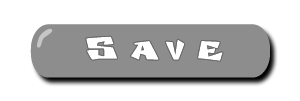
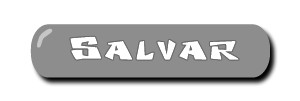
Update on the Winner screen and Initial screen

Changed region(s): [[0.21, 0.3564, 0.81, 0.6238]]

diff --git a/src/shoot_the_alien/screens/WinnerScreen.java b/src/shoot_the_alien/screens/WinnerScreen.java
@@ -13,11 +13,15 @@ import javax.swing.JTextField;
 import javax.swing.border.Border;
 import javax.swing.border.EtchedBorder;
 
+import shoot_the_alien.Framework;
+import shoot_the_alien.Framework.GameState;
 import shoot_the_alien.Image;
+import shoot_the_alien.JoyStick;
+import shoot_the_alien.PlayWAVFile;
 import shoot_the_alien.Window;
 
 /**
- * 
+ * Build the winner screen.
  * 
  * @author Luiz Eduardo da Costa
  * @version 1.0, 05/05/2016
@@ -54,7 +58,10 @@ public class WinnerScreen {
      * The index of the currently selected button.
      */
     private int btnSelectedIndex = 0;
-    
+    /**
+     * Play a file sound.
+     */
+    private PlayWAVFile soundFile;
     
     
     
@@ -77,12 +84,14 @@ public class WinnerScreen {
 	 */
 	private void loadContent(){
 		objImage = new Image();		
-		background  = objImage.getBackgroundImg();
+		background  = objImage.getBackgroundWinnerImg();
 		univas_logo = objImage.getUnivasLogoImg();
 		imgBtnSave = objImage.getBtnSaveImg();
     	imgBtnSave2 = objImage.getBtnSaveImg2();
     	imgBtnCancel = objImage.getBtnCancelImg();
     	imgBtnCancel2 = objImage.getBtnCancelImg2();
+    	
+    	soundFile = new PlayWAVFile(PlayWAVFile.CLICK, 1);
 	}
 	
 	
@@ -175,15 +184,9 @@ public class WinnerScreen {
     	g2d.setFont(new Font("Lucida Sans", Font.BOLD, 16));
     	g2d.drawImage(background, 0, 0, Window.frameWidth, Window.frameHeight, null);                
         g2d.drawImage(univas_logo, 0, Window.frameHeight - (univas_logo.getHeight() + 10), 250, 70, null);
-    	
-        if(pnBaseFields != null){
-        	int btn_x = pnBaseFields.getX() + 110;
-        	int btn_y = pnBaseFields.getY() + pnBaseFields.getHeight() + 40;
-            g2d.drawImage(imgBtnSave2, btn_x, btn_y, imgBtnSave2.getWidth(), imgBtnSave2.getHeight(), null);
-            g2d.drawImage(imgBtnCancel, btn_x+360, btn_y, imgBtnCancel.getWidth(), imgBtnCancel.getHeight(), null);
-        }
-
         g2d.drawString(msg, Window.frameWidth/2-200, Window.frameHeight - 8);
+        
+        drawSelectedButton(g2d);
 	}
 	
 	
@@ -215,16 +218,56 @@ public class WinnerScreen {
 				currentlyButtonSelected = ButtonSelected.SAVE;
 				break;
 		}
-    	int btn_x = (Window.frameWidth / 2) - (imgBtnSave.getWidth() / 2);
-    	int btn_y = (Window.frameHeight / 2) ;
     	
-    	g2d.drawImage(imgSave, btn_x, btn_y, imgSave.getWidth(), imgSave.getHeight(), null); 
-    	g2d.drawImage(imgCancel, btn_x, (int) (btn_y*1.25), imgCancel.getWidth(), imgCancel.getHeight(), null); 
+    	
+    	if(pnBaseFields != null){
+        	int btn_x = pnBaseFields.getX() + 110;
+        	int btn_y = pnBaseFields.getY() + pnBaseFields.getHeight() + 40;
+            g2d.drawImage(imgSave, btn_x, btn_y, imgBtnSave2.getWidth(), imgBtnSave2.getHeight(), null);
+            g2d.drawImage(imgCancel, btn_x+360, btn_y, imgBtnCancel.getWidth(), imgBtnCancel.getHeight(), null);
+        }   
     }
 	
 	
 	
 	
+    
+    /**
+     * Check which button was pressed and do anything.
+     */
+    public void checkButtonPressed(){               	
+    	boolean isLeftPressed = JoyStick.getInstance().checkPOVPressed(JoyStick.BTN_LEFT);
+        boolean isRightPressed = JoyStick.getInstance().checkPOVPressed(JoyStick.BTN_RIGHT);
+        boolean isConfirmPressed = JoyStick.getInstance().checkButtonPressed(JoyStick.BTN_CONFIRM);
+
+        
+        if(isConfirmPressed && currentlyButtonSelected.equals(ButtonSelected.CANCEL)){
+        	pnBaseFields.setVisible(false);
+        	Framework.gameState = GameState.MAIN_MENU;
+        }
+        	
+        	
+        if(isLeftPressed || isRightPressed){
+        	
+        	if(isLeftPressed)
+            	btnSelectedIndex = btnSelectedIndex == 0 ? 1 : 0;
+            
+            if(isRightPressed)        	
+            	btnSelectedIndex = btnSelectedIndex == 1 ? 0 : 1;
+        	
+        	// Play the click sound.
+        	Thread th_click = new Thread(soundFile);
+    		th_click.start();
+        	
+        	// Wait a little time to change the button again.
+    		try {
+    			Thread.sleep(180);
+    		} catch (InterruptedException e1) { }
+        }
+        
+        currentlyButtonSelected = mainButtons[ btnSelectedIndex ];
+
+    }
 	
 	
 	

diff --git a/src/shoot_the_alien/JoyStick.java b/src/shoot_the_alien/JoyStick.java
@@ -20,8 +20,11 @@ import net.java.games.input.Component.Identifier;
 public class JoyStick implements Runnable {
 
 	
-	/** The code of the button to get the ammunition kit (L1).*/
+	/** The code of the button to get the ammunition kit (3).*/
 	public static final Identifier BTN_GET_KIT = Identifier.Button._2;
+	/** The code of the button to confirm Save or Cancel the winner registration.*/
+	public static final Identifier BTN_CONFIRM = Identifier.Button._2;
+	
 	/** The code of the button shoot (R1).*/
 	public static final Identifier BTN_SHOOT = Identifier.Button._5;
 	/** The code of the button SELECT.*/
@@ -32,6 +35,10 @@ public class JoyStick implements Runnable {
 	public static final float BTN_UP = Component.POV.UP;
 	/** The float value of the button DOWN.*/
 	public static final float BTN_DOWN = Component.POV.DOWN;
+	/** The float value of the button LEFT.*/
+	public static final float BTN_LEFT = Component.POV.LEFT;
+	/** The float value of the button RIGHT.*/
+	public static final float BTN_RIGHT = Component.POV.RIGHT;
 	
 	
 	

diff --git a/src/shoot_the_alien/screens/InitialScreen.java b/src/shoot_the_alien/screens/InitialScreen.java
@@ -180,7 +180,7 @@ public class InitialScreen {
     	boolean isUpPressed = JoyStick.getInstance().checkPOVPressed(JoyStick.BTN_UP);
         boolean isDownPressed = JoyStick.getInstance().checkPOVPressed(JoyStick.BTN_DOWN);
         	
-        mainMenuButtons = ButtonSelected.values();
+       // mainMenuButtons = ButtonSelected.values();
         
         
     	if(isStartPressed){

diff --git a/src/shoot_the_alien/Framework.java b/src/shoot_the_alien/Framework.java
@@ -269,6 +269,8 @@ public class Framework extends Canvas {
                 	if(screenWinner.pnBaseFields == null)
                     	super.add(screenWinner.getPanelFields());
                 	
+                	screenWinner.checkButtonPressed();
+                	
                 break;
                 case GAMEOVER:
                 	// Stop the timewatch.
